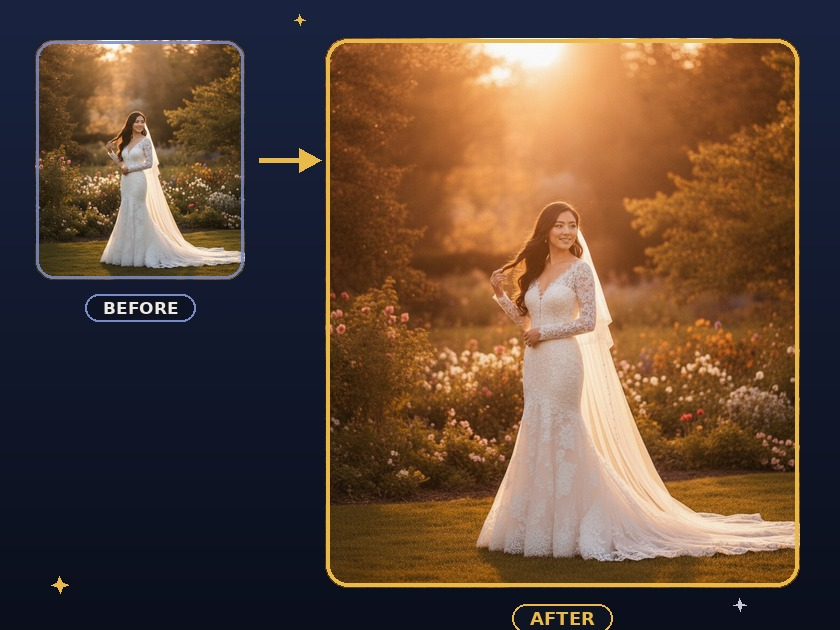
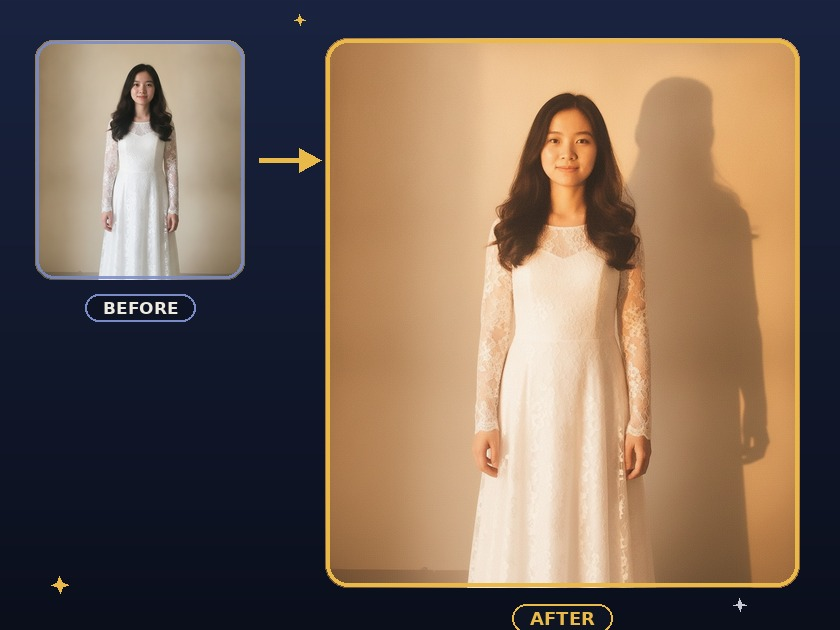
v4.20.22: restore Silhouette Romance's partner-shadow effect + Vietnamese model
The previous brightening pass (v4.20.19) accidentally dropped the
workflow's core concept (a partner's silhouette cast on the backdrop) and
left just a generic bright garden portrait. Regenerated with a Vietnamese
bride model, kept her clearly lit/visible, and restored the warm
partner-silhouette shadow on the wall behind her in the AFTER panel.

diff --git a/docs/app/sw.js b/docs/app/sw.js
@@ -1,6 +1,6 @@
 /* HNK Web Studio service worker — cache-first for library assets,
    network-first for everything else (so app updates arrive immediately). */
-var CACHE = "hnk-web-studio-v4-20-21";
+var CACHE = "hnk-web-studio-v4-20-22";
 var OFFLINE_URL = "./index.html";
 
 self.addEventListener("install", function (e) {

diff --git a/docs/app/index.html b/docs/app/index.html
@@ -3941,7 +3941,7 @@ if ("serviceWorker" in navigator) {
 }
 
 /* version check: tell cached users when a new build ships */
-var APP_VER="4.20.21";
+var APP_VER="4.20.22";
 (function(){
   var vv="v"+APP_VER;
   var nv=document.getElementById("navVer"); if(nv) nv.textContent=vv;
